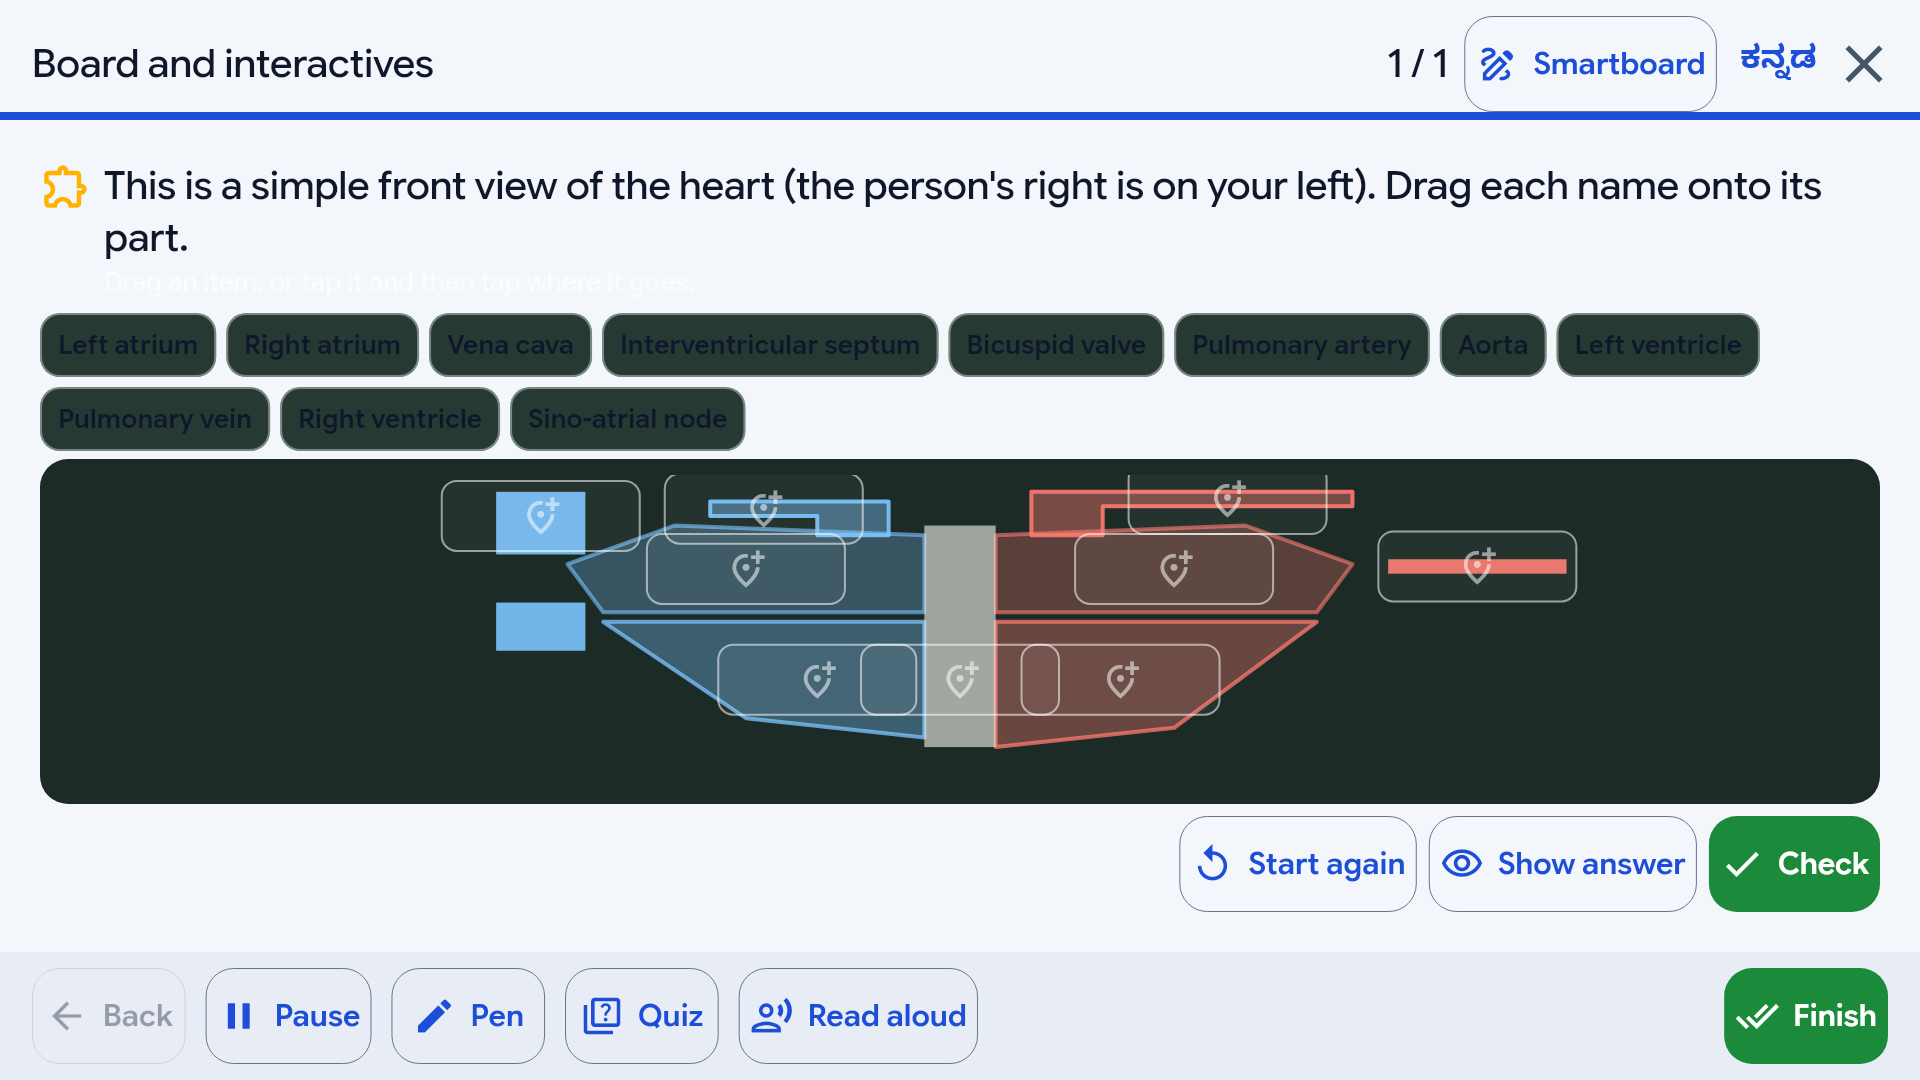
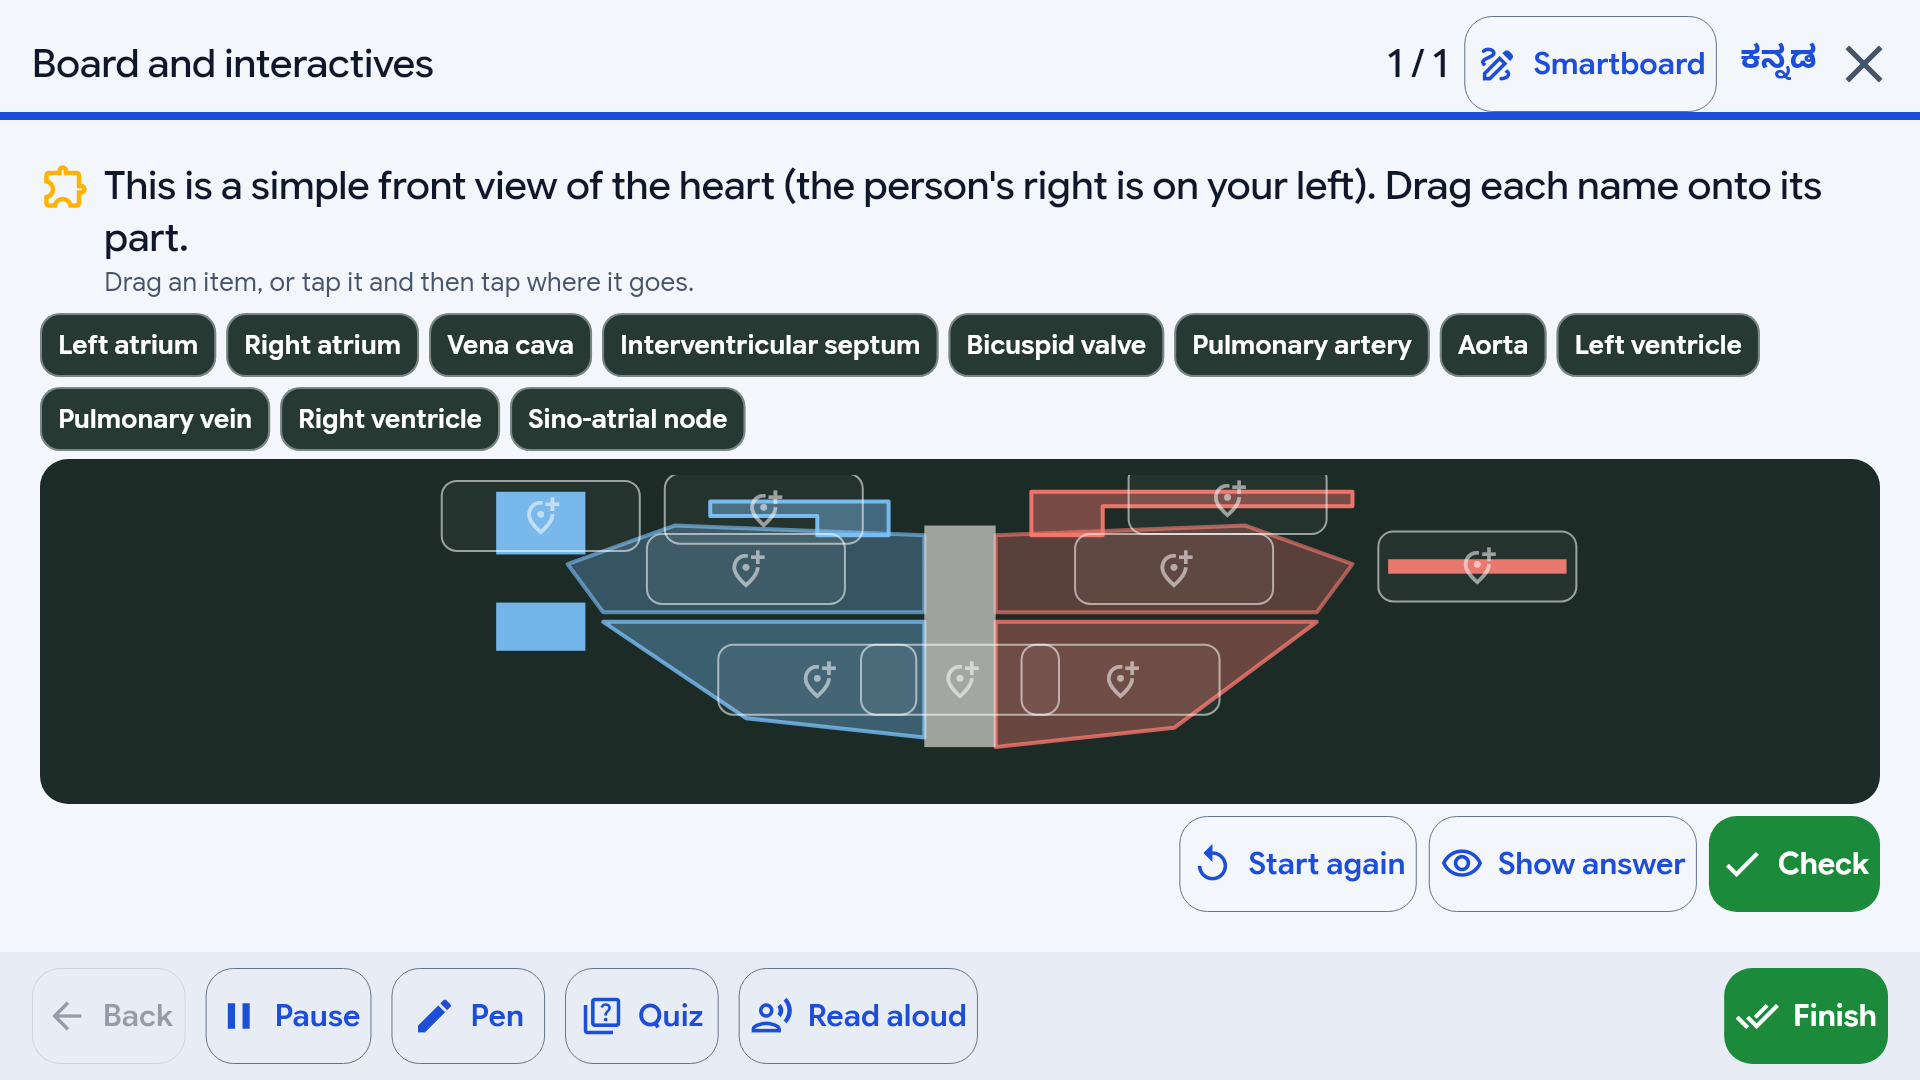
README: v3 simulation screenshots and current test counts
Claude-Session: https://claude.ai/code/session_01CrEw3mKVcsMSp9VQsb5zxb

diff --git a/README.md b/README.md
@@ -54,6 +54,15 @@ Board screens are 1920×1080 and rendered with the app's own fonts (`apps/board/
 | ![Challenge: land the projectile on the flag](apps/board/screenshots/png/23-challenge.png) | ![Game Zone missions](apps/board/screenshots/png/24-game-zone.png) |
 | ![Phone quiz over the board's own Wi-Fi](apps/board/screenshots/png/25-phone-quiz.png) | ![Paper test marks](apps/board/screenshots/png/26-paper-marks.png) |
 
+**Version 3: a simulation or activity in every lesson (1,332 lessons, 11 subjects).** Animated scenes with play, pause, speed, step and scrub; toggles, choices, buttons and draggable handles; sort, order, match, label, hotspot and fill activities. Authoring guide: [docs/simulations.md](docs/simulations.md).
+
+| | |
+|---|---|
+| ![Large-angle pendulum with energy bars](apps/board/screenshots/png/27-sim-pendulum.png) | ![Convex lens with a draggable object](apps/board/screenshots/png/28-sim-lens.png) |
+| ![Cardiac cycle and ECG](apps/board/screenshots/png/29-sim-cardiac-cycle.png) | ![Label the human heart](apps/board/screenshots/png/30-activity-label-heart.png) |
+| ![Arrhenius: temperature and rate](apps/board/screenshots/png/31-sim-arrhenius.png) | ![Bubble sort, step by step](apps/board/screenshots/png/32-sim-bubble-sort.png) |
+| ![Accounting equation with transaction buttons](apps/board/screenshots/png/33-sim-accounting-equation.png) | |
+
 | College Admin: outcomes | |
 |---|---|
 | ![Outcomes](docs/screenshots/admin-06-outcomes.png) | ![Section drill-down](docs/screenshots/admin-07-section-drilldown.png) |
@@ -90,9 +99,9 @@ Tests:
 | Package | Tests |
 |---|---|
 | lesson-schema | 4 (vitest) |
-| pack-builder | 5 (vitest) |
-| api | 10 end-to-end tests against PostgreSQL (jest) |
-| cms | 6 (vitest) |
-| board | 45 (flutter test) |
+| pack-builder | 85 (vitest) |
+| api | 19 (jest, against PostgreSQL) |
+| cms | 7 (vitest) |
+| board | 223 (flutter test) |
 
 The Admin and CMS apps were also smoke-tested end to end in Chromium against the seeded API.
